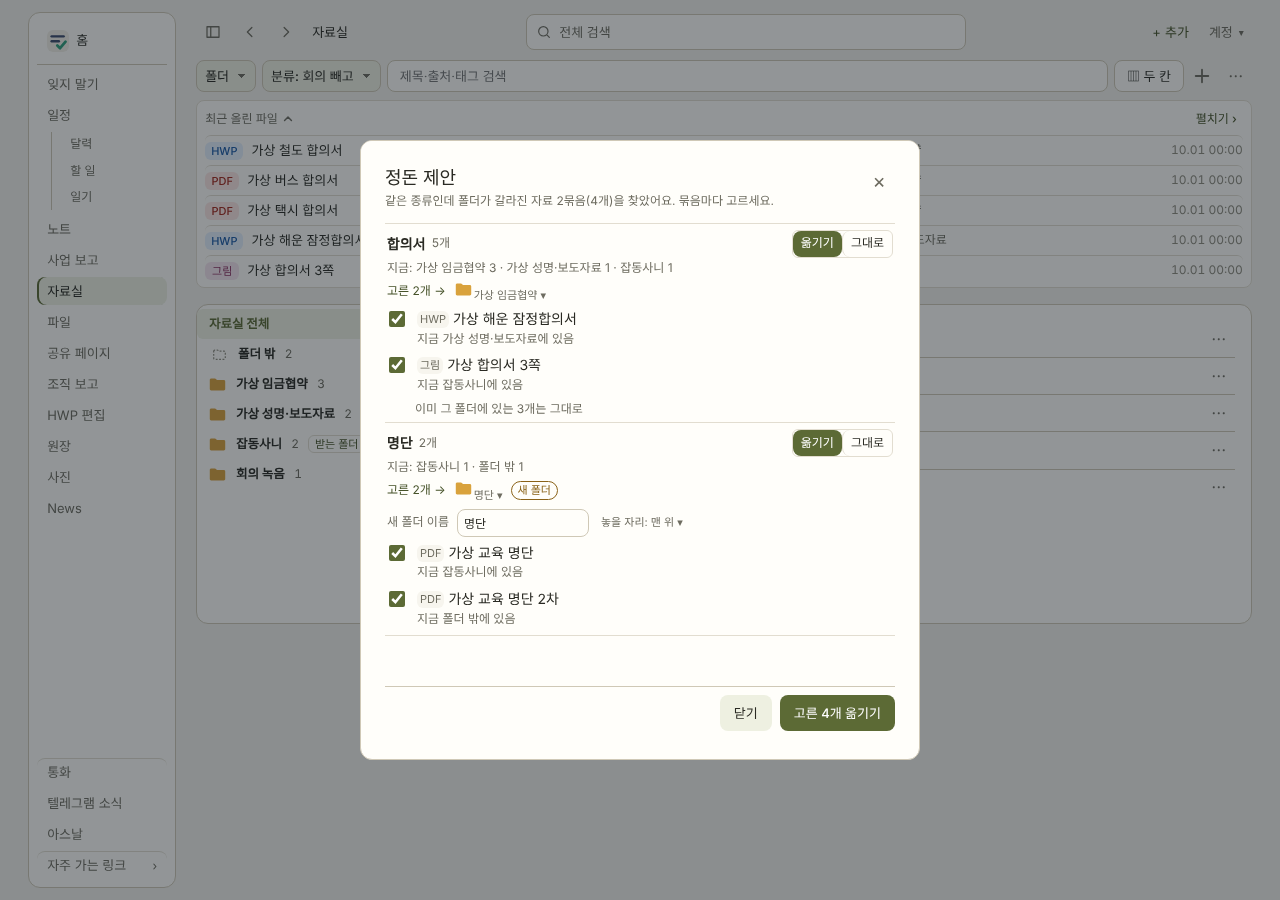
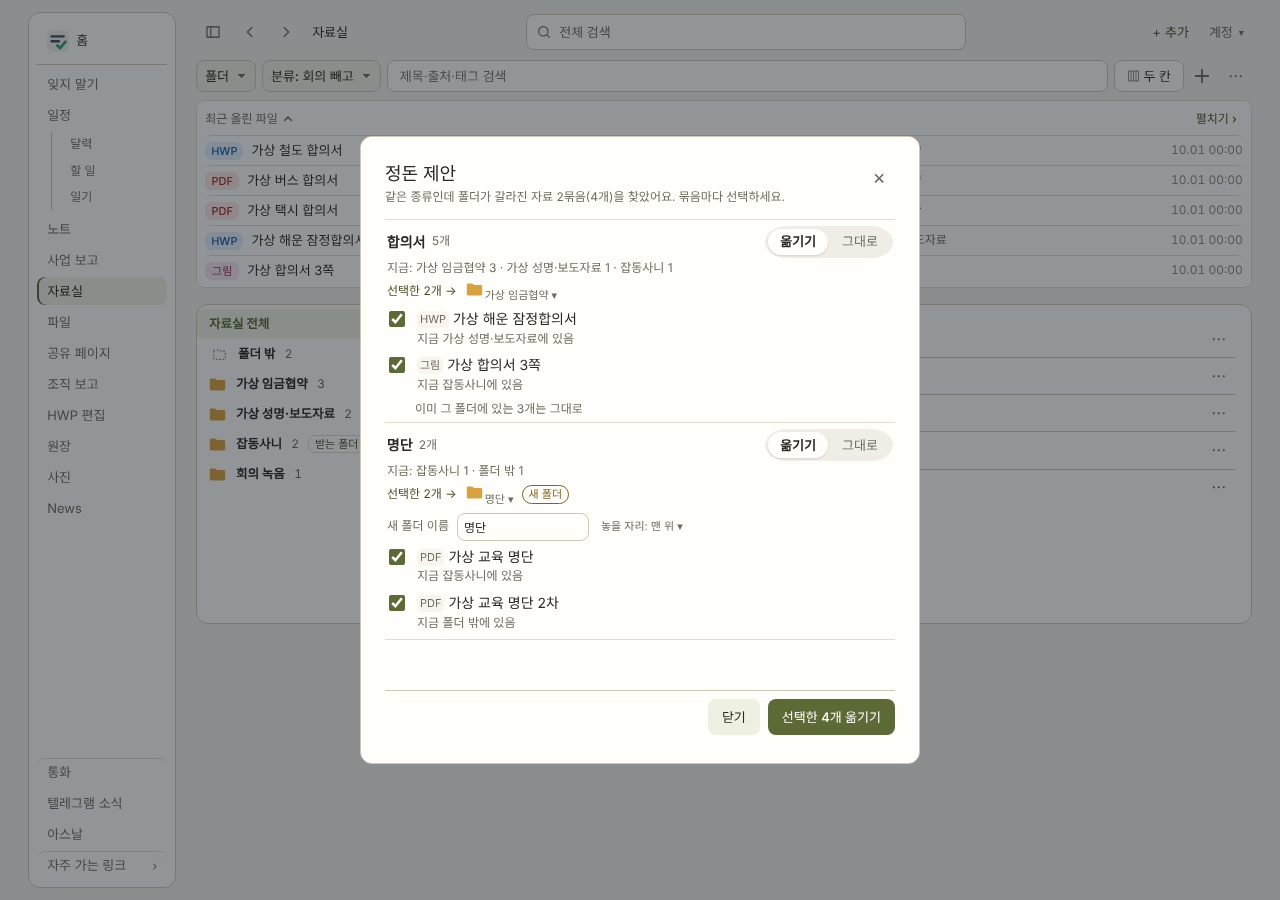
[S61-13] LIB-정돈제안: 공용 기다림 표시·보기 바꾸기(ds-seg)·용어 기준표(선택) 맞춤
Claude-Session: https://claude.ai/code/session_01QdB5NP58A4xN93nvvLpRfR

diff --git a/app/library-sort.js b/app/library-sort.js
@@ -206,6 +206,7 @@ async function removeEmptyFolders(api,ids,ws){
 }
 
 // ---- LIB-정돈제안(S61-13, 시안 docs/design/mockups/lib-tidy-suggest.html, 명진 11/13 04:31·04:36 ㅇ) ----
+// (기다림 표시는 공용 waitInlineHtml — 따로 쓴 기다림 글자 없음.)
 // 자료실 맨 위 ⋯·빈 자리 우클릭·폴더 메뉴의 [정돈 제안] → 같은 종류인데 폴더가 둘 이상으로 갈라진 자료를 묶음으로 보여 준다(폴더 메뉴에서 열면 그 폴더 안만).
 // 받는 폴더 나누기와 같은 부품: 같은 창 모양(lu-sort-*)·같은 폴더 고르기 창(createMovePicker)·같은 옮기기 길(소유자 RLS 표 두 개)·같은 되돌리기(빈 새 폴더 지우기).
 // 묶음 찾기는 1차로 규칙만(library-sort-model.mjs tidyGroups — AI 없음). 녹음('회의 녹음' 폴더·소리 파일)은 묶음에서 뺀다.
@@ -255,19 +256,19 @@ export function createTidySuggest({api,esc,state,reload,say}){
   }
   function groupHtml(g){
     const move=g.mode==='move',n=g.rows.filter(r=>r.checked).length;
-    return `<section class="lu-tidy-group${move?'':' lu-tidy-keep'}" data-tidy-group="${esc(g.gid)}" aria-label="${esc(g.word)} 묶음"><div class="lu-tidy-head"><b>${esc(g.word)}</b> <small>${g.total}개</small><span class="lu-tidy-seg" role="group" aria-label="${esc(g.word)} 묶음 옮기기 여부"><button type="button" data-tidy-mode="move" data-tidy-g="${esc(g.gid)}" aria-pressed="${move}">옮기기</button><button type="button" data-tidy-mode="keep" data-tidy-g="${esc(g.gid)}" aria-pressed="${!move}">그대로</button></span></div>`
+    return `<section class="lu-tidy-group${move?'':' lu-tidy-keep'}" data-tidy-group="${esc(g.gid)}" aria-label="${esc(g.word)} 묶음"><div class="lu-tidy-head"><b>${esc(g.word)}</b> <small>${g.total}개</small><span class="lu-tidy-seg ds-seg" role="group" aria-label="${esc(g.word)} 묶음 옮기기 여부"><button type="button" class="ds-seg-btn" data-tidy-mode="move" data-tidy-g="${esc(g.gid)}" aria-pressed="${move}">옮기기</button><button type="button" class="ds-seg-btn" data-tidy-mode="keep" data-tidy-g="${esc(g.gid)}" aria-pressed="${!move}">그대로</button></span></div>`
       +`<p class="lu-tidy-at">${esc(tidyAtText(g.at,fromText))}</p>`
-      +(move?`<div class="lu-tidy-to">${n?`고른 ${n}개 → `:'모두 → '}${targetHtml(g)}</div>${g.rows.map(r=>rowHtml(g,r)).join('')}${g.stay?`<p class="lu-sort-why lu-tidy-stay">이미 그 폴더에 있는 ${g.stay}개는 그대로</p>`:''}`
-        :`<p class="lu-sort-why">'그대로'를 골라 이 묶음은 옮기지 않아요.</p>`)+'</section>';
+      +(move?`<div class="lu-tidy-to">${n?`선택한 ${n}개 → `:'모두 → '}${targetHtml(g)}</div>${g.rows.map(r=>rowHtml(g,r)).join('')}${g.stay?`<p class="lu-sort-why lu-tidy-stay">이미 그 폴더에 있는 ${g.stay}개는 그대로</p>`:''}`
+        :`<p class="lu-sort-why">'그대로'를 선택해 이 묶음은 옮기지 않아요.</p>`)+'</section>';
   }
   function paint(){
     if(!root)return;
     const list=root.querySelector('#libraryTidyList'),y=list.scrollTop;
-    list.innerHTML=groups.map(groupHtml).join('')+(done?(groups.length?'':emptyHtml('흩어진 자료 없음')):`<p class="lu-tidy-wait">${waitInlineHtml()} 더 찾는 중…</p>`);
+    list.innerHTML=groups.map(groupHtml).join('')+(done?(groups.length?'':emptyHtml('흩어진 자료 없음')):`<p class="lu-tidy-wait">${waitInlineHtml()}</p>`);
     list.scrollTop=y;
     root.querySelector('#libraryTidySub').textContent=(scope?pathName(scope)+' 안 · ':'')+tidySummary(groups,{done});
     const n=tidyPlan(groups,made).count,b=root.querySelector('[data-tidy-apply]');
-    b.textContent=`고른 ${n}개 옮기기`;b.disabled=!n||busy||!done;
+    b.textContent=`선택한 ${n}개 옮기기`;b.disabled=!n||busy||!done;
   }
   const say2=(text,error=false)=>{if(!root)return;const el=root.querySelector('#libraryTidyStatus');el.textContent=text;el.className=error?'status error':'status'};
 

diff --git a/app/library-upload.css b/app/library-upload.css
@@ -562,10 +562,7 @@
 #libraryTidyModal .lu-tidy-group{padding:6px 2px 4px;border-bottom:1px solid var(--kptu-border)}
 #libraryTidyModal .lu-tidy-head{display:flex;align-items:center;gap:6px;font-size:var(--ds-text-body,14px)}
 #libraryTidyModal .lu-tidy-head small{color:var(--kptu-muted);font-size:var(--ds-text-meta,12px)}
-#libraryTidyModal .lu-tidy-seg{margin-left:auto;display:inline-flex;border:1px solid var(--kptu-border);border-radius:var(--kptu-radius-sm,4px);overflow:hidden}
-#libraryTidyModal .lu-tidy-seg button{min-height:26px;padding:0 8px;border:0;border-left:1px solid var(--kptu-border);background:var(--kptu-surface,transparent);color:var(--kptu-ink);font-size:var(--ds-text-meta,12px);cursor:pointer}
-#libraryTidyModal .lu-tidy-seg button:first-child{border-left:0}
-#libraryTidyModal .lu-tidy-seg button[aria-pressed="true"]{background:var(--kptu-primary);color:var(--kptu-on-primary)}
+#libraryTidyModal .lu-tidy-seg{margin-left:auto}
 #libraryTidyModal .lu-tidy-at{margin:1px 0 2px;color:var(--kptu-muted);font-size:var(--ds-text-meta,12px);overflow-wrap:anywhere}
 #libraryTidyModal .lu-tidy-to{display:flex;flex-wrap:wrap;align-items:center;gap:4px;margin:2px 0;font-size:var(--ds-text-meta,12px);color:var(--kptu-primary-ink,var(--kptu-ink))}
 #libraryTidyModal .lu-tidy-to .lu-sort-edit{flex-basis:100%}

diff --git a/app/library-folders.js b/app/library-folders.js
@@ -144,7 +144,7 @@ export function mountLibraryFolders({api,esc,state,reload,status,reveal=()=>{},n
         +(i>0?'<button type="button" data-lu-folder-action="up">위로</button>':'')+(i>=0&&i<sib.length-1?'<button type="button" data-lu-folder-action="down">아래로</button>':'')
         +(folderMoveTargets(s().folders,f.id,!!s().free).length?'<button type="button" data-lu-folder-action="move">옮기기…</button>':'')
         +'<button type="button" data-lu-folder-action="paint">색 선택…</button>'
-        +receiveLine(f)+sortLine(f)+(tidy&&s().free?'<button type="button" class="lu-menu-tidy" data-lu-folder-action="tidy">정돈 제안</button>':'')
+        +receiveLine(f)+sortLine(f)+(tidy&&s().free?'<button type="button" class="row-act lu-menu-tidy" data-lu-folder-action="tidy">정돈 제안</button>':'')
         +sep+'<button type="button" class="lu-menu-danger" data-lu-folder-action="delete">폴더 삭제</button>';
     },
     onClose:()=>{if(!colorReopen)colorFor=null},
